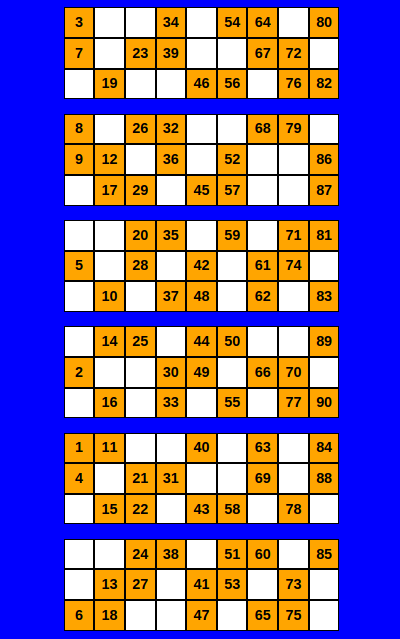
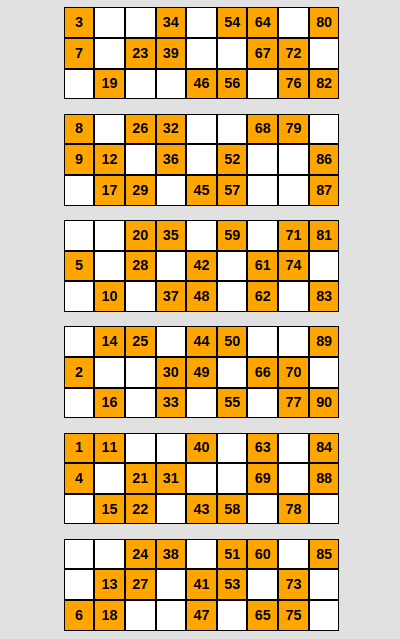
Agrego colores aleatorios por carga de pagina

diff --git a/templates/plantilla.html b/templates/plantilla.html
@@ -24,7 +24,7 @@
 }
 
 .o {
-  background-color: orange;
+  background-color: {{ color }};
   text-align: center;
   font-weight: bold;
   display: flex;

diff --git a/run.py b/run.py
@@ -1,8 +1,12 @@
+# Autor: Alan Hergenreder
+
+import random
 from src.bingo import generador_bingo
 from flask import Flask, request, render_template
 app = Flask(__name__)
 
 @app.route("/")
 def index():
+    color = ['Gold','LawnGreen','OrangeRed','Teal','SaddleBrown','Indigo','HotPink','SeaGreen','DarkRed']
     t = generador_bingo()
-    return render_template("plantilla.html",talonario=t)
+    return render_template("plantilla.html",talonario=t,color=color[random.randrange(9)])
